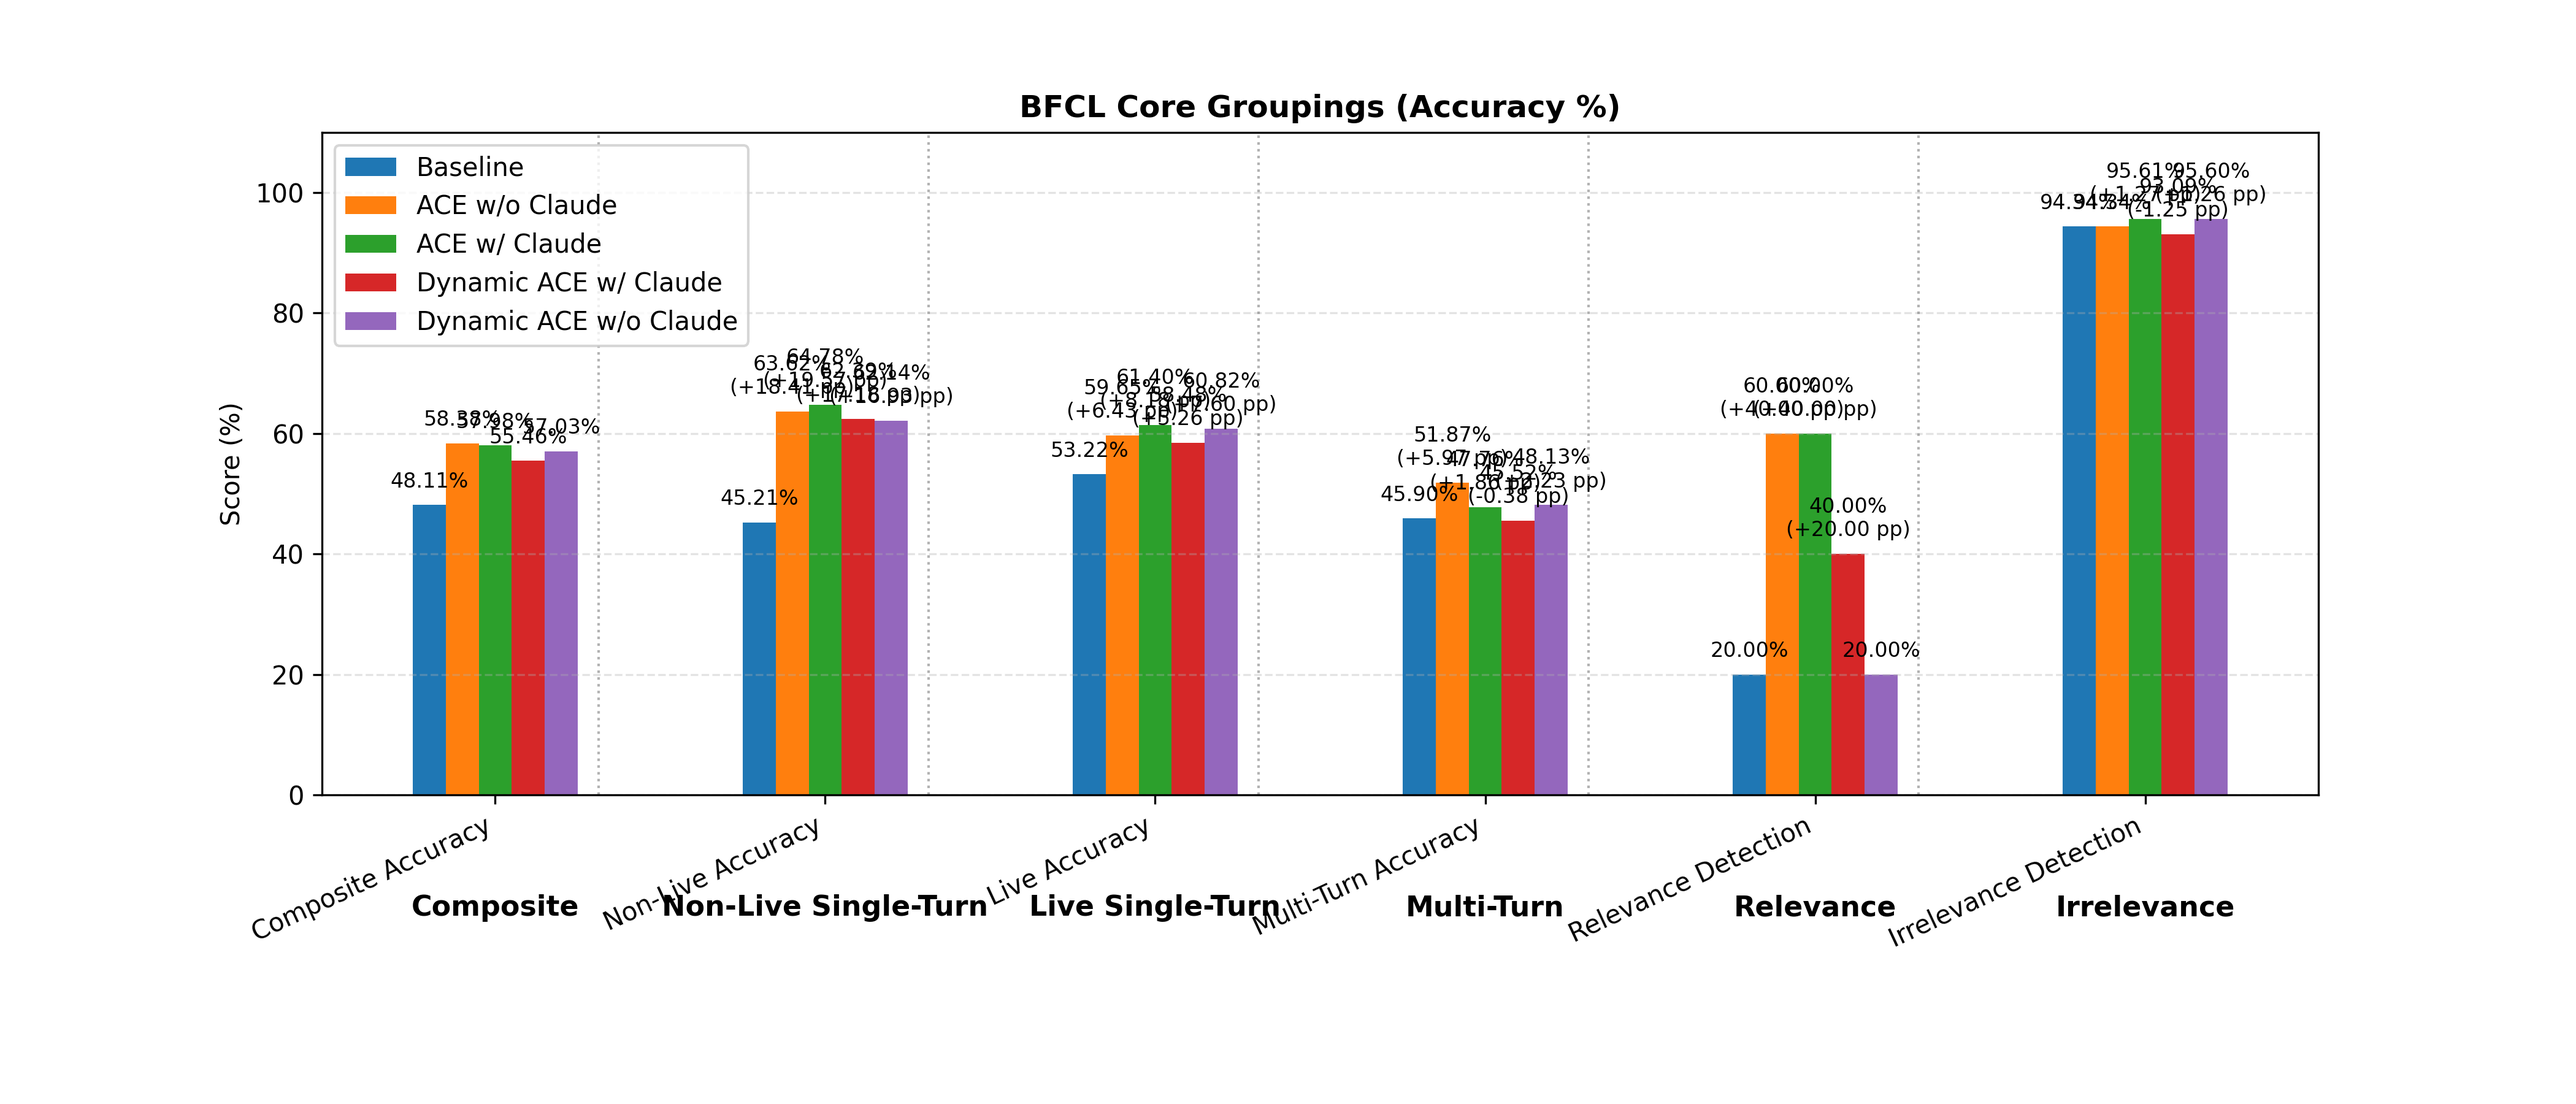
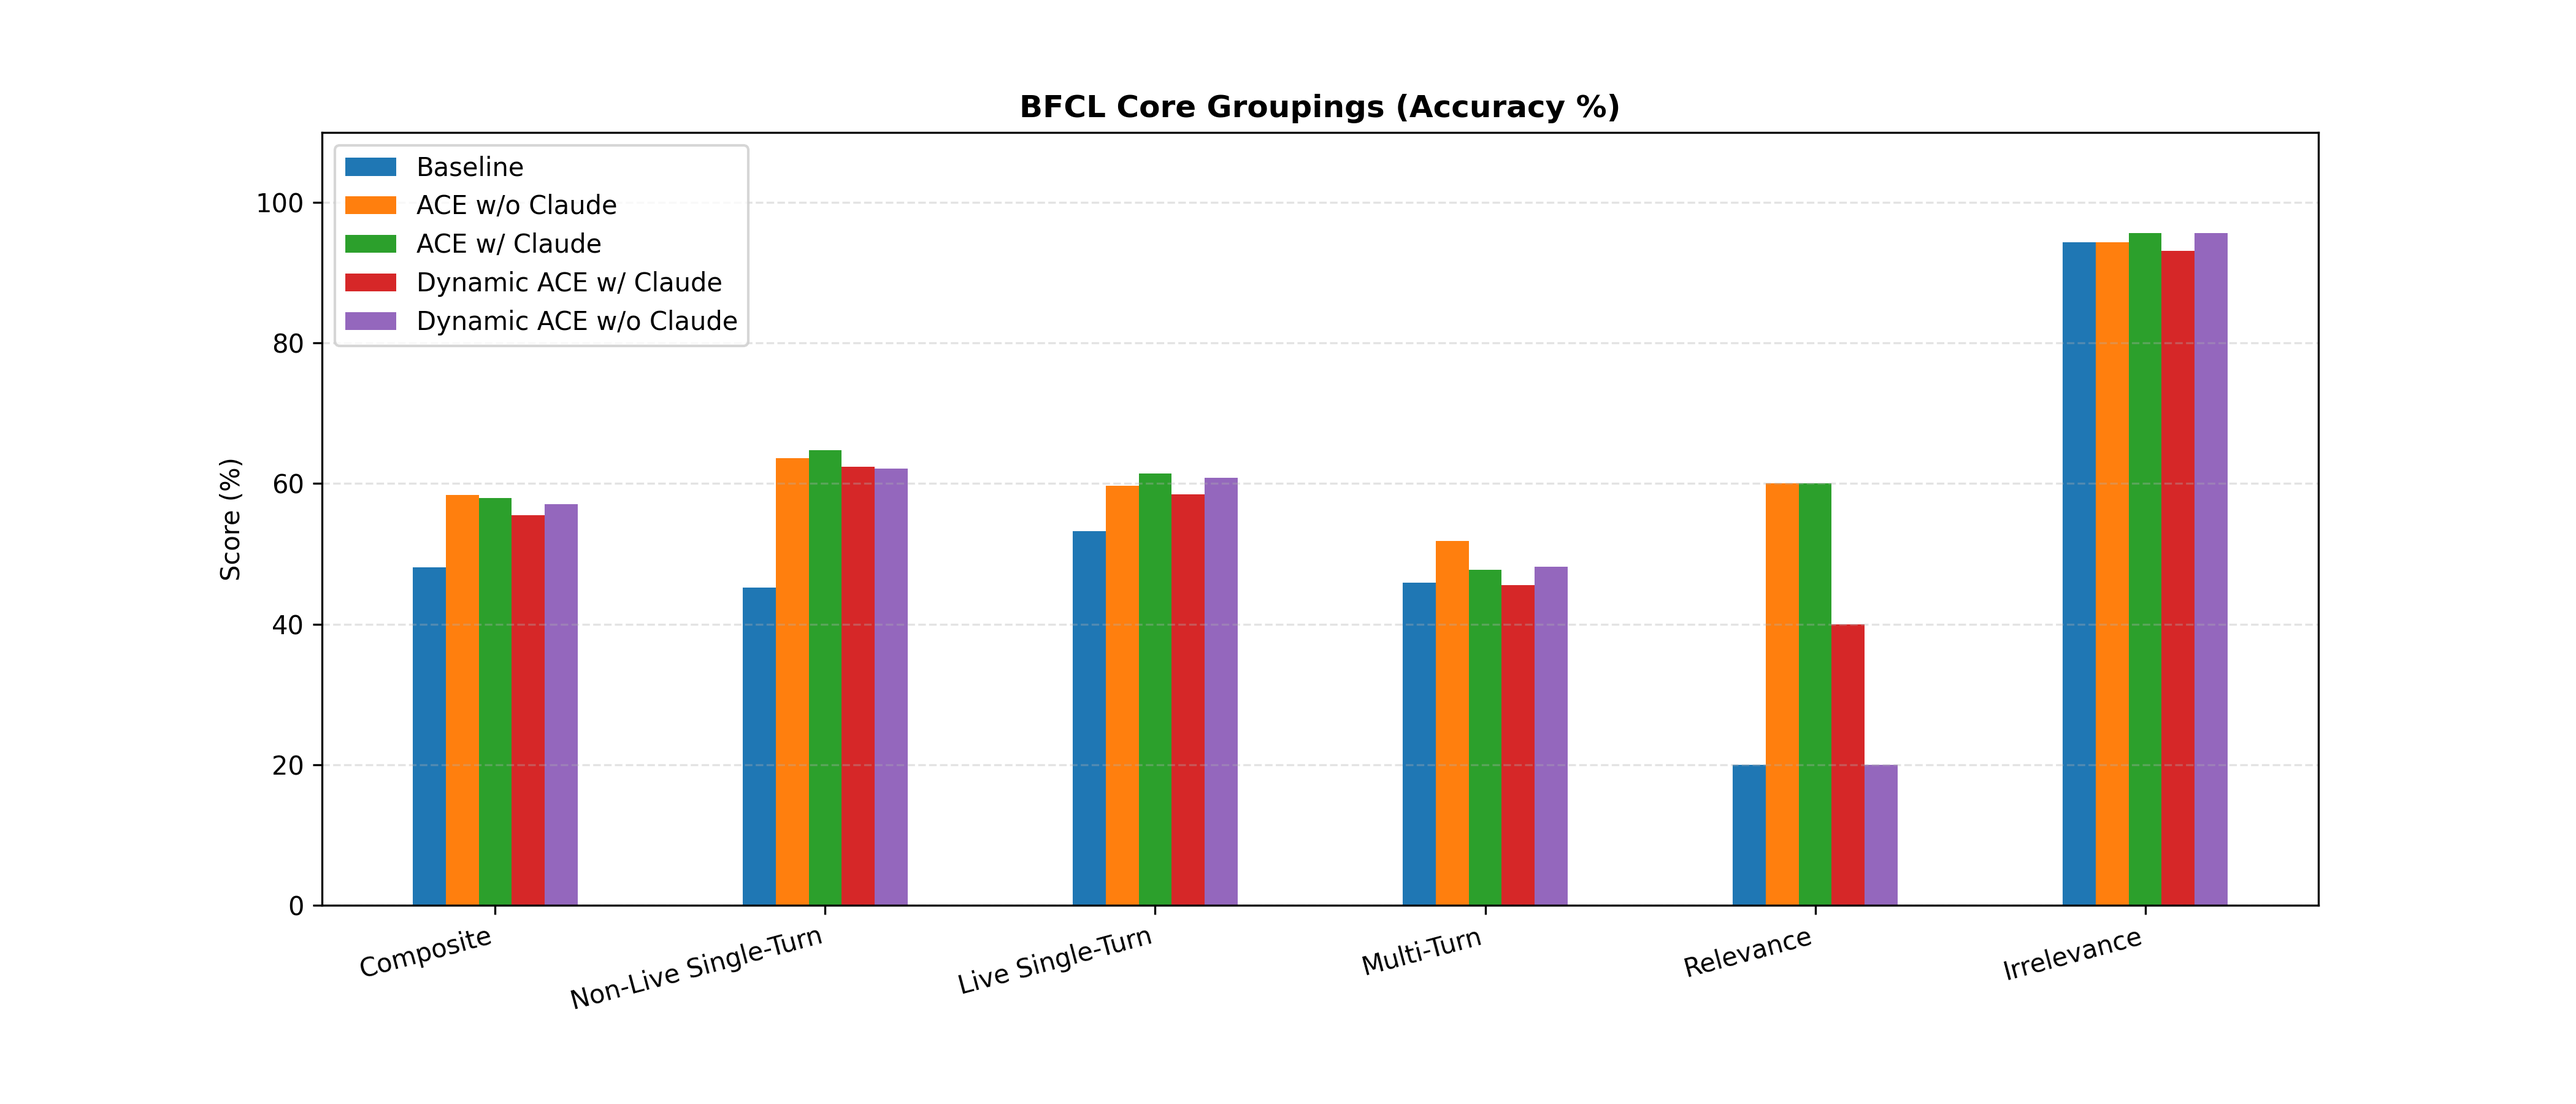
better plot

diff --git a/generate_ace_vs_baseline_plots.py b/generate_ace_vs_baseline_plots.py
@@ -232,6 +232,8 @@ def render_metric_groups(
     rotation: int = 25,
     figsize: Tuple[float, float] = (16, 6),
     ylabel: str | None = None,
+    annotate: bool = True,
+    show_group_labels: bool = True,
 ) -> None:
     run_names = list(run_data.keys())
     if not run_names:
@@ -301,9 +303,10 @@ def render_metric_groups(
     else:
         configure_value_axis(ax, all_values, ylabel or title)
 
-    for idx, (bars, values) in enumerate(bar_records):
-        labels_for_bars = build_bar_labels(values, baseline_values, unit)
-        annotate_bars(ax, bars, labels_for_bars)
+    if annotate:
+        for idx, (bars, values) in enumerate(bar_records):
+            labels_for_bars = build_bar_labels(values, baseline_values, unit)
+            annotate_bars(ax, bars, labels_for_bars)
 
     ax.set_xticks(x)
     ax.set_xticklabels(labels, rotation=rotation, ha="right")
@@ -311,22 +314,24 @@ def render_metric_groups(
     ax.grid(axis="y", linestyle="--", alpha=0.35)
     ax.legend()
 
-    for sep in separators:
-        ax.axvline(sep, color="gray", linestyle=":", linewidth=1, alpha=0.6)
+    if show_group_labels:
+        for sep in separators:
+            ax.axvline(sep, color="gray", linestyle=":", linewidth=1, alpha=0.6)
 
-    for group_label, center in group_centers:
-        ax.text(
-            center,
-            -0.15,
-            group_label,
-            transform=ax.get_xaxis_transform(),
-            ha="center",
-            va="top",
-            fontsize=11,
-            fontweight="semibold",
-        )
+        for group_label, center in group_centers:
+            ax.text(
+                center,
+                -0.15,
+                group_label,
+                transform=ax.get_xaxis_transform(),
+                ha="center",
+                va="top",
+                fontsize=11,
+                fontweight="semibold",
+            )
 
-    fig.subplots_adjust(bottom=0.28)
+    bottom_margin = 0.28 if show_group_labels else 0.18
+    fig.subplots_adjust(bottom=bottom_margin)
     fig.savefig(OUTPUT_DIR / filename, dpi=300)
     plt.close(fig)
 
@@ -567,12 +572,12 @@ def plot_grouped_composite_view(
     colors: Mapping[str, Tuple[float, float, float, float]],
 ) -> None:
     grouped_metrics = [
-        ("Composite", "overall", [("Composite Accuracy", "Composite Acc (No Web)")]),
-        ("Non-Live Single-Turn", "non_live", [("Non-Live Accuracy", "Non-Live Overall Acc")]),
-        ("Live Single-Turn", "live", [("Live Accuracy", "Live Overall Acc")]),
-        ("Multi-Turn", "multi", [("Multi-Turn Accuracy", "Multi Turn Overall Acc")]),
-        ("Relevance", "overall", [("Relevance Detection", "Relevance Detection")]),
-        ("Irrelevance", "overall", [("Irrelevance Detection", "Irrelevance Detection")]),
+        ("Composite", "overall", [("Composite", "Composite Acc (No Web)")]),
+        ("Non-Live Single-Turn", "non_live", [("Non-Live Single-Turn", "Non-Live Overall Acc")]),
+        ("Live Single-Turn", "live", [("Live Single-Turn", "Live Overall Acc")]),
+        ("Multi-Turn", "multi", [("Multi-Turn", "Multi Turn Overall Acc")]),
+        ("Relevance", "overall", [("Relevance", "Relevance Detection")]),
+        ("Irrelevance", "overall", [("Irrelevance", "Irrelevance Detection")]),
     ]
     render_metric_groups(
         "bfcl_grouped_overview.png",
@@ -581,6 +586,9 @@ def plot_grouped_composite_view(
         run_data,
         colors,
         figsize=(14, 6),
+        annotate=False,
+        show_group_labels=False,
+        rotation=15,
     )
 
 
